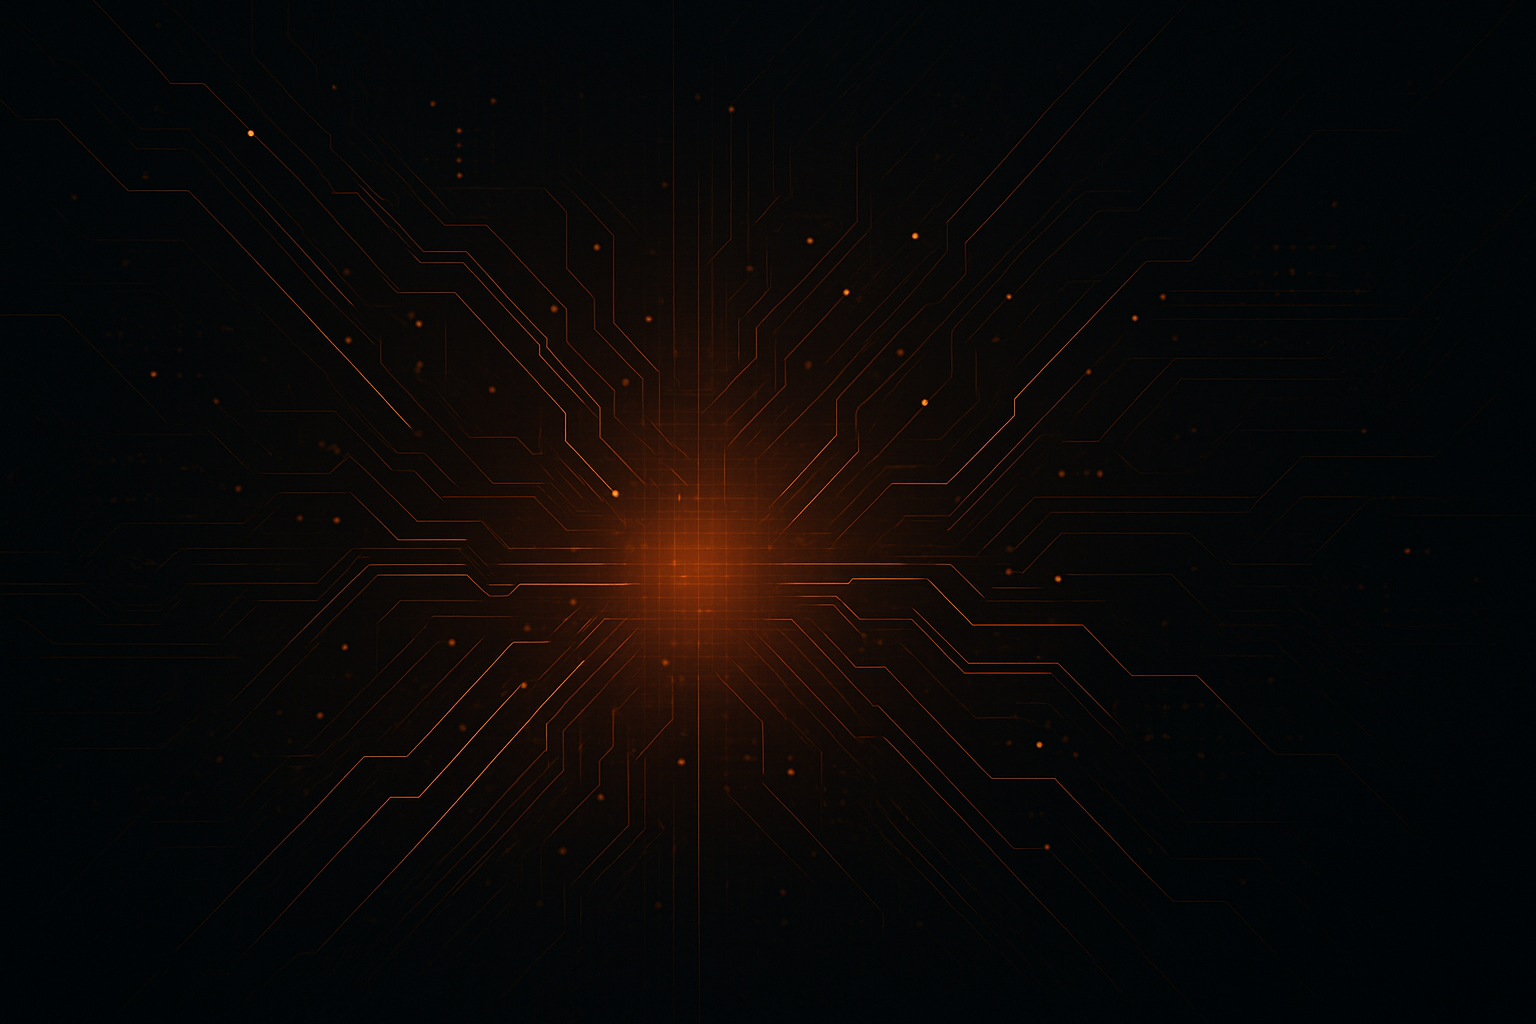
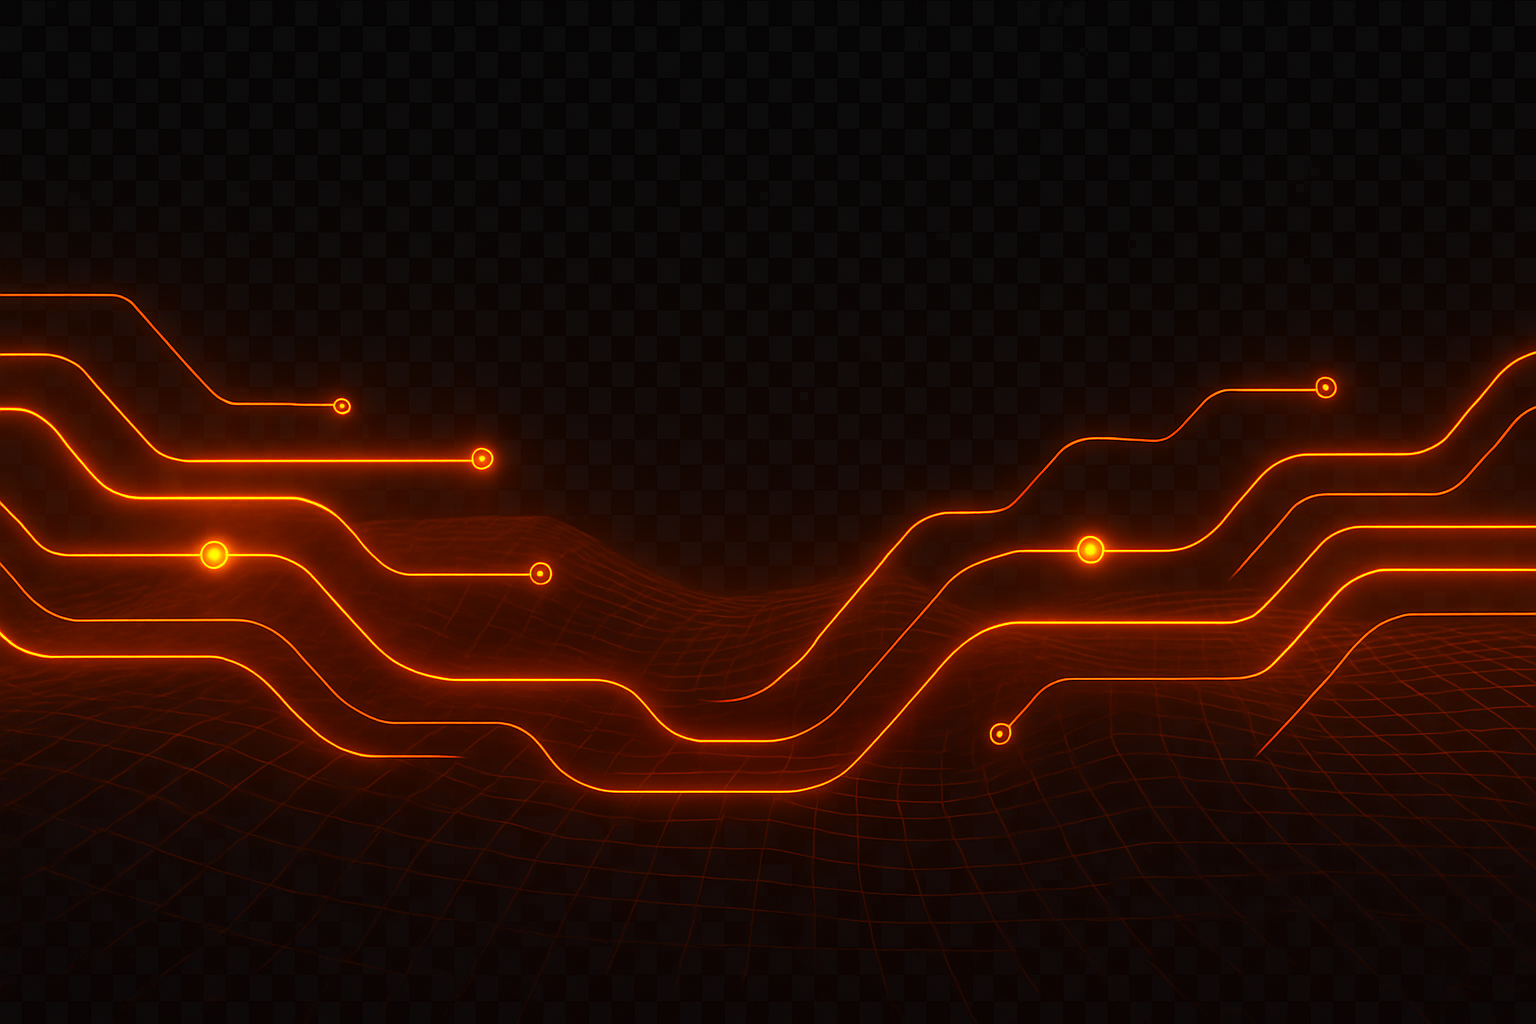
fix: changed background hero section.

diff --git a/app/components/HeroSection.tsx b/app/components/HeroSection.tsx
@@ -15,18 +15,18 @@ export default function HeroSection() {
   return (
     <section
       className={`
-        relative w-full h-[60vh] flex items-center justify-center overflow-hidden
+        relative w-full h-[65vh] flex items-center justify-center overflow-hidden
         ${isDark ? 'bg-black' : 'bg-white'}
       `}
     >
-      {/* Background image */}
+      {/* Background image + dark gradient overlay */}
       <div
         className="absolute top-0 left-1/2 w-screen h-full transform -translate-x-1/2 bg-center bg-cover"
         style={{
           backgroundImage: isDark
-            ? "url('/high-tech-background-dark.png')"
-            : "url('/high-tech-background-light.png')",
-          filter: isDark ? 'brightness(0.85)' : 'brightness(0.96)',
+            ? `linear-gradient(to bottom, rgba(0,0,0,0.6), rgba(0,0,0,0.95)), url('/high-tech-background-dark.png')`
+            : `url('/high-tech-background-light.png')`,
+          filter: isDark ? 'brightness(0.9)' : 'brightness(0.96)',
         }}
       />
 

diff --git a/app/components/StatsSection.tsx b/app/components/StatsSection.tsx
@@ -14,7 +14,7 @@ type Stat = {
 };
 
 const stats: Stat[] = [
-  { label: 'Years in the market', value: 7, prefix: '+' },
+  { label: 'Years in the market', value: 8, prefix: '+' },
   { label: 'VMs provisioned', value: 15000, prefix: '+' },
   { label: 'Clients served', value: 1100, prefix: '+' },
   { label: 'Project hours', value: 6000, prefix: '+' },
